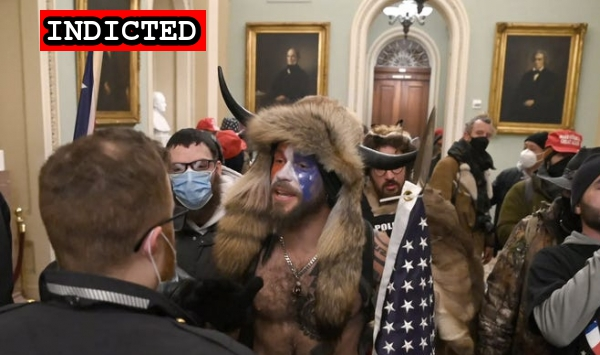
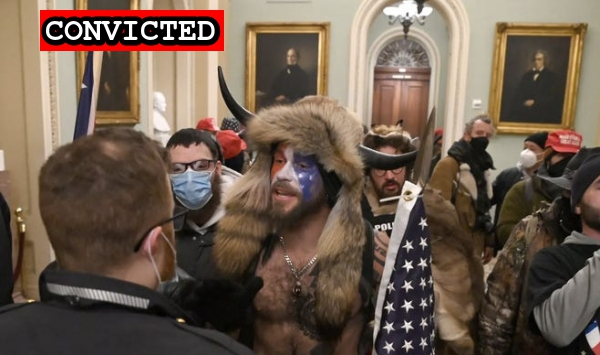
Chansley plea

Changed region(s): [[0.06, 0.031, 0.39, 0.1549]]

diff --git a/docs/_suspects/jacob-chansley.md b/docs/_suspects/jacob-chansley.md
@@ -3,13 +3,13 @@ name: Jacob Chansley
 lastName: Chansley
 aka: Jake Angeli, Q Shaman
 residence: Arizona
-status: Indicted
+status: Convicted
 date: 2021-01-08
 charged: 2021-01-08
 indicted: 2021-01-11
-convicted: 
-sentenced: 
-dismissed: 
+convicted: 2021-09-03
+sentenced:
+dismissed:
 deceased:
 age: 33
 occupation:
@@ -29,6 +29,11 @@ author: seditiontrack
 layout: suspect
 published: true
 caseNumber: 1:21-cr-3
+charges:
+  - code: '18 USC § 1512(c)(2)'
+    title: 'Obstruction of an Official Proceding'
+    url: 'https://www.law.cornell.edu/uscode/text/18/1512'
+    felony: true
 ---
 - [DOJ Press Release](https://www.justice.gov/usao-dc/pr/three-men-charged-connection-events-us-capitol)
 - [News Report](https://www.azcentral.com/story/news/local/arizona-breaking/2021/01/11/jake-angeli-arizona-seen-us-capitol-raid-fur-hat-horns-federal-court-hearing/6625619002/)

diff --git a/docs/_suspects/paul-hodgkins.md b/docs/_suspects/paul-hodgkins.md
@@ -31,7 +31,7 @@ published: true
 caseNumber: 1:21-cr-188
 charges:
   - code: '18 USC § 1512(c)(2)'
-    title: 'Obstruction of Congress'
+    title: 'Obstruction of an Official Proceding'
     url: 'https://www.law.cornell.edu/uscode/text/18/1512'
     felony: true
 ---
